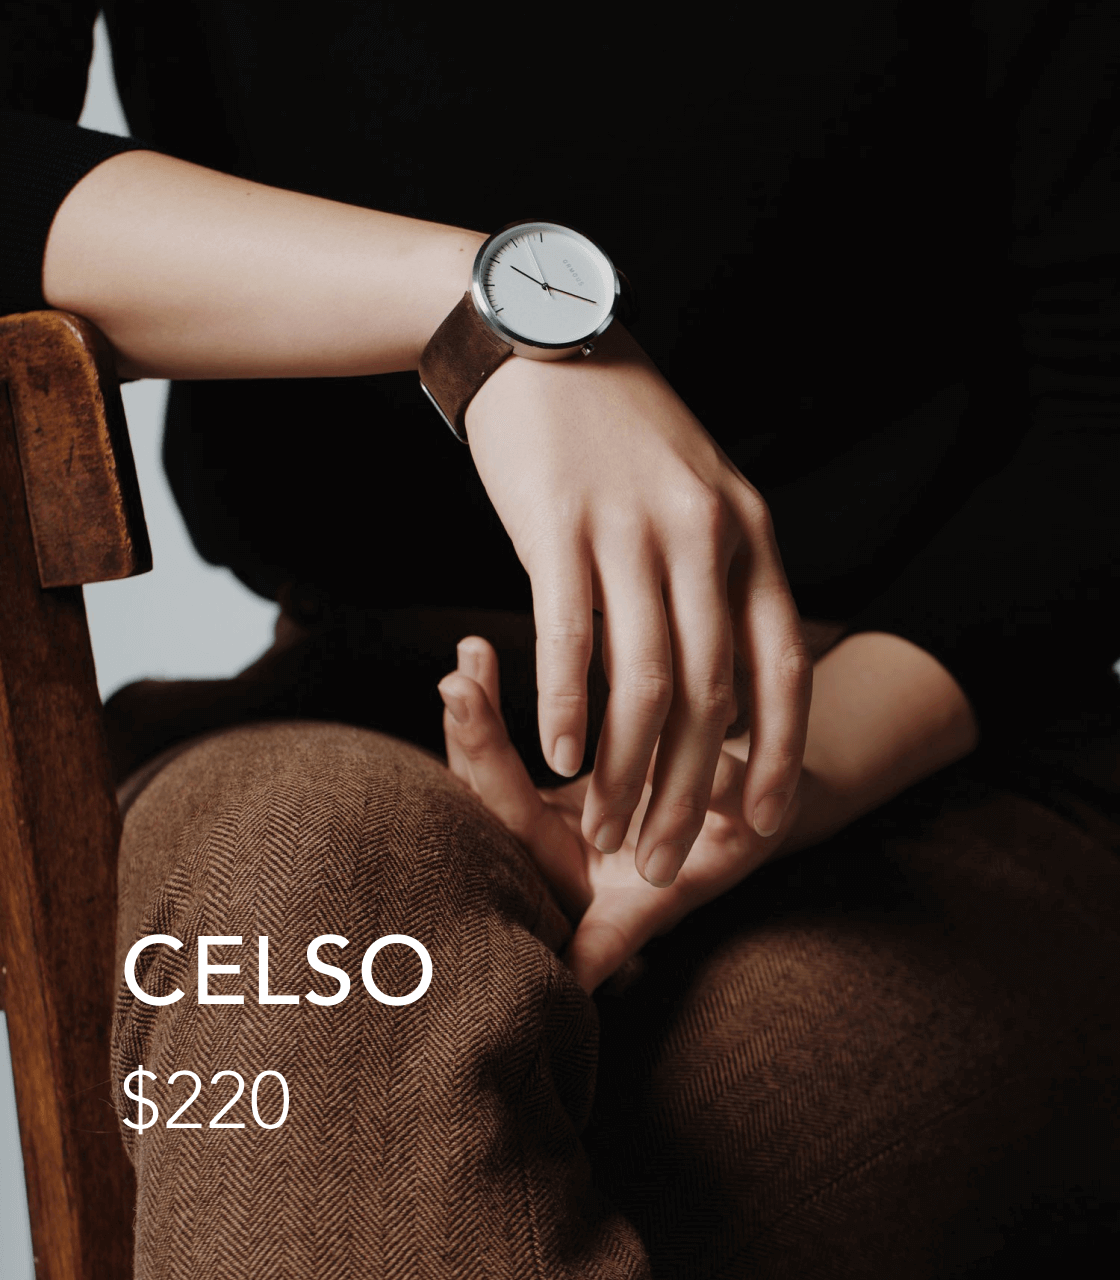
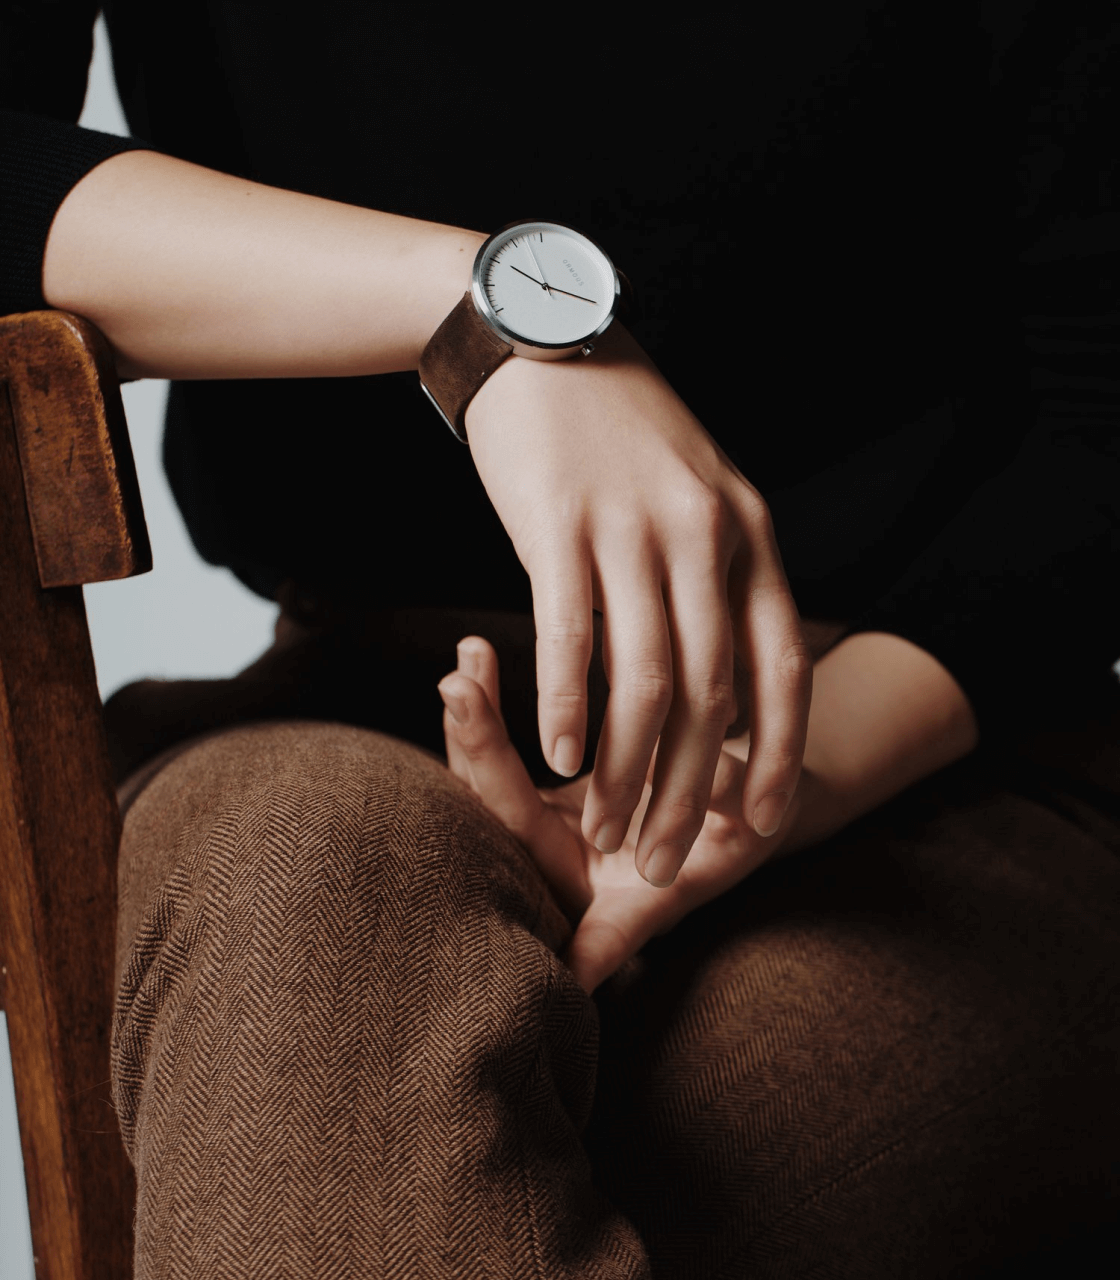
feat: add zoom animation to images

Changed region(s): [[0.0938, 0.7188, 0.4062, 0.9062]]

diff --git a/src/screens/List.tsx b/src/screens/List.tsx
@@ -7,48 +7,56 @@ const { width, height } = Dimensions.get('screen')
 const SPACING = 40
 const SLIDE_HEIGHT = height * (2 / 3)
 const SLIDE_WIDTH = width - SPACING
+const nishhar = width - ((SLIDE_WIDTH + SPACING) * 2 + SPACING)
+
 
 const ListScreen = () => {
   const scrollX = useRef(new Animated.Value(0)).current
 
   return (
-        <SafeAreaView style={styles.wrapper}>
-            <StatusBar backgroundColor="#E5E5E5" barStyle="dark-content"></StatusBar>
-            <Animated.FlatList
-              data={SLIDES}
-              horizontal
-              showsHorizontalScrollIndicator={false}
-              keyExtractor={item => item.id}
-              style={styles.list}
-              snapToInterval={SLIDE_WIDTH}
-              pagingEnabled
-              renderItem={({ item, index }) => {
-                const inputRange = [(index - 1), index, (index + 1)].map(item => item * SLIDE_WIDTH)
-                const scale = scrollX.interpolate({
-                  inputRange,
-                  outputRange: [1, 1.01, 1]
-                })
-                return (
-                  <View style={[styles.itemWrapper, index === SLIDES.length - 1 ? {} : { paddingRight: SPACING / 2 }]}>
-                    <Animated.Image source={item.image} resizeMode="contain"
-                    style={[styles.image, { transform: [{ scale }] }]} />
-                    <View style={styles.contentWrapper}>
-                      <Text>
-                        {item.brand}
-                      </Text>
-                      <Text>
-                        {item.price}
-                      </Text>
-                    </View>
-                  </View>
-                )
-              }}
-              onScroll={Animated.event(
-                [{ nativeEvent: { contentOffset: { x: scrollX } } }],
-                { useNativeDriver: false }
-              )}
-            />
-        </SafeAreaView>
+    <SafeAreaView style={styles.wrapper}>
+      <StatusBar backgroundColor="#E5E5E5" barStyle="dark-content"></StatusBar>
+      <Animated.FlatList
+        data={SLIDES}
+        horizontal
+        showsHorizontalScrollIndicator={false}
+        keyExtractor={item => item.id}
+        style={styles.list}
+        snapToInterval={SLIDE_WIDTH}
+        snapToAlignment={'start'}
+        pagingEnabled
+        renderItem={({ item, index }) => {
+          const inputRange = [(index - 1), index, (index + 1)].map(item => item * SLIDE_WIDTH)
+          const scale = scrollX.interpolate({
+            inputRange,
+            outputRange: [1, 1.2, 1]
+          })
+          return (
+            <View style={[
+              styles.itemWrapper,
+              index === SLIDES.length - 1 ? {} : { paddingRight: SPACING / 2 },
+            ]}>
+              <Animated.Image
+                source={item.image}
+                resizeMode="cover"
+                style={[styles.image, { transform: [{ scale }] }]} />
+              <View style={styles.contentWrapper}>
+                <Text style={styles.brand}>
+                  {item.brand}
+                </Text>
+                <Text style={styles.price}>
+                  {item.price}
+                </Text>
+              </View>
+            </View>
+          )
+        }}
+        onScroll={Animated.event(
+          [{ nativeEvent: { contentOffset: { x: scrollX } } }],
+          { useNativeDriver: false }
+        )}
+      />
+    </SafeAreaView>
   )
 }
 
@@ -62,15 +70,29 @@ const styles = StyleSheet.create({
   },
   itemWrapper: {
     width: SLIDE_WIDTH,
-    height: SLIDE_HEIGHT
+    height: SLIDE_HEIGHT,
+    overflow: 'hidden',
+    zIndex: 1
   },
   image: {
-    width: '100%',
-    height: SLIDE_HEIGHT
+    width: SLIDE_WIDTH - SPACING,
+    height: SLIDE_HEIGHT,
+    borderRadius: 1
   },
   contentWrapper: {
     position: 'absolute',
-    bottom: 20
+    bottom: 40,
+    left: 20
+  },
+  brand: {
+    color: '#fff',
+    fontSize: 24,
+    fontFamily: 'Avenir'
+  },
+  price: {
+    color: '#fff',
+    fontSize: 20,
+    fontFamily: 'Avenir'
   }
 })
 
